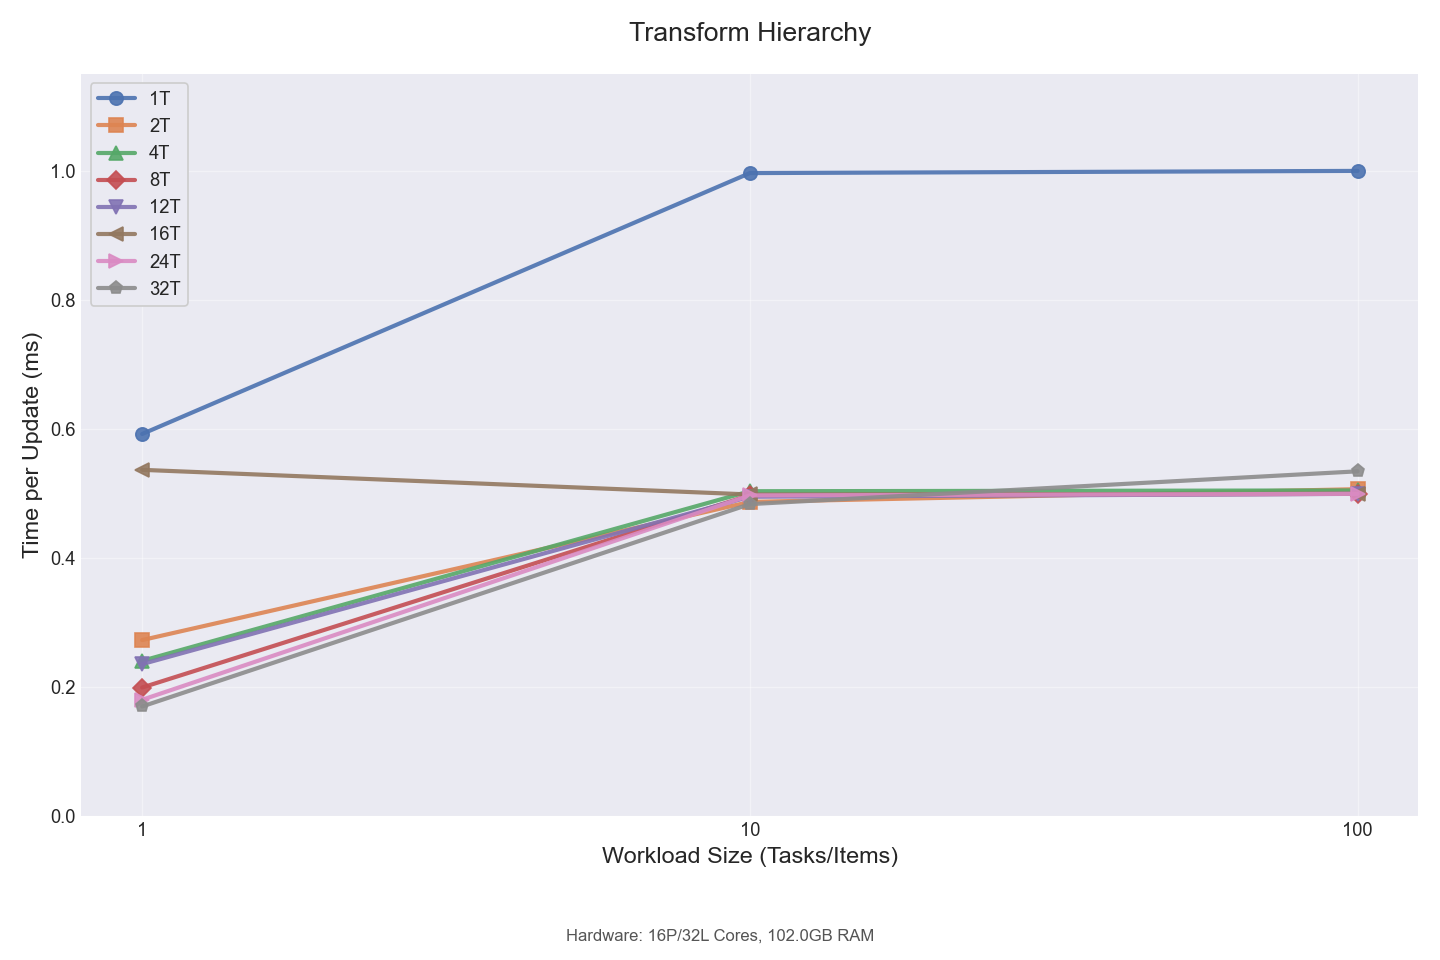
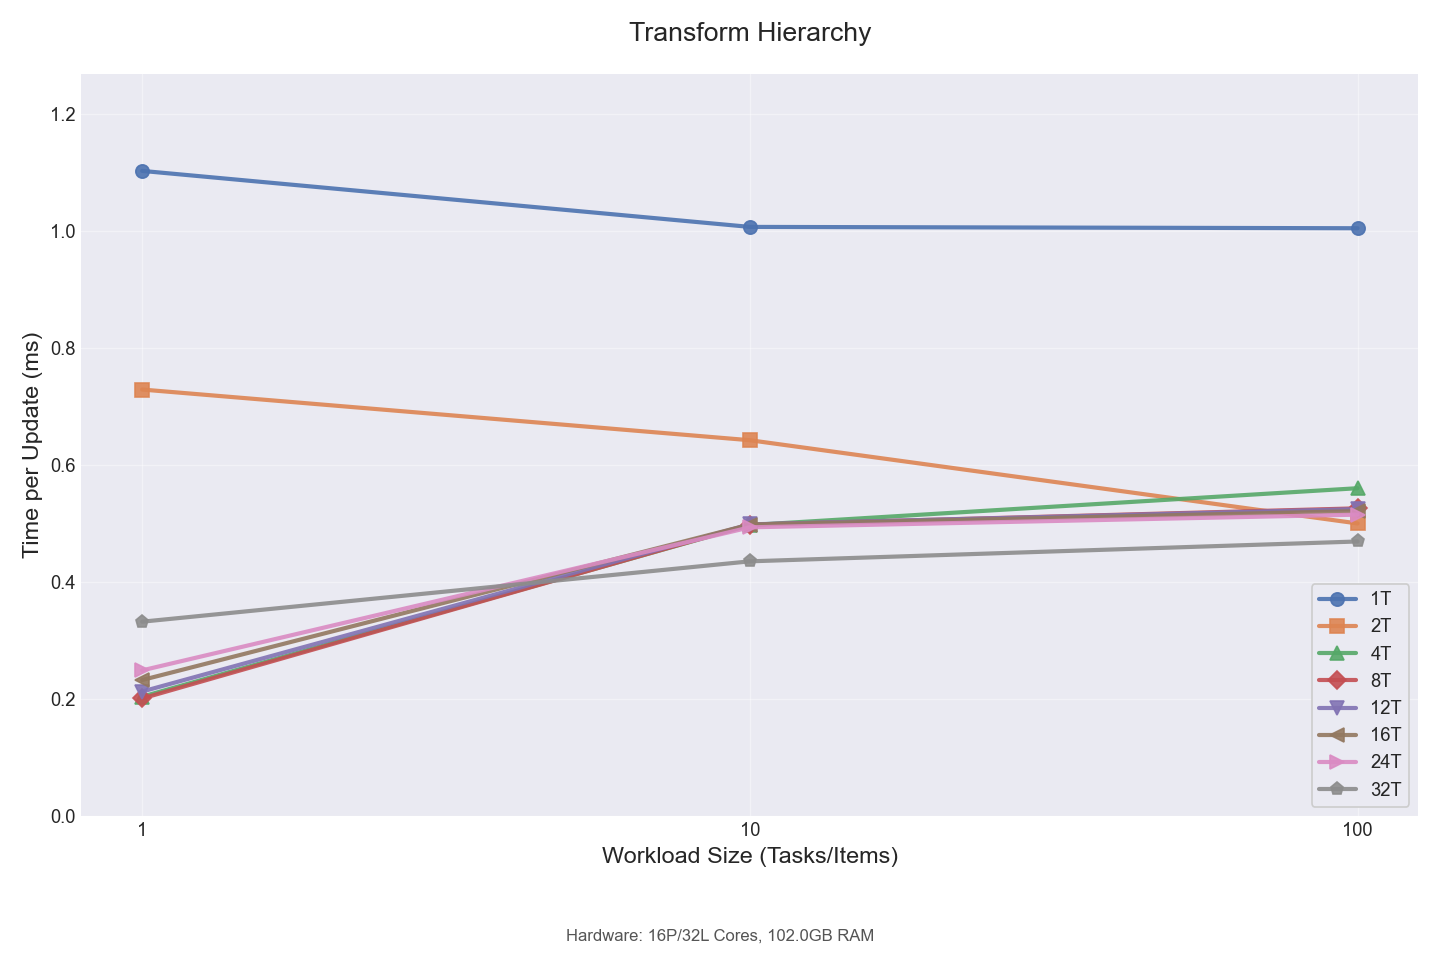
implement globalparker to improve workstealing

diff --git a/src/worker.rs b/src/worker.rs
@@ -26,6 +26,56 @@ pub enum WorkerPoolError {
     WorkerPanic { failed_count: usize },
 }
 
+/// Global parking mechanism for worker threads.
+/// uses a Condition Variable to block idle threads and wake them up when work arrives.
+pub(crate) struct GlobalParker {
+    lock: std::sync::Mutex<()>,
+    cvar: std::sync::Condvar,
+    sleepers: AtomicUsize,
+}
+
+impl GlobalParker {
+    pub(crate) fn new() -> Self {
+        Self {
+            lock: std::sync::Mutex::new(()),
+            cvar: std::sync::Condvar::new(),
+            sleepers: AtomicUsize::new(0),
+        }
+    }
+
+    /// Blocks the current thread until notified.
+    pub(crate) fn park(&self) {
+        let mut guard = self.lock.lock().unwrap();
+        self.sleepers.fetch_add(1, Ordering::SeqCst);
+        // We put the thread to sleep.
+        // Note: We might experience spurious wakeups, which is fine; the worker will just check for work and sleep again.
+        // We use wait_timeout to prevent deadlocks (lost wakeups) due to race conditions between
+        // checking `sleepers` count and actually parking. A 1ms timeout is sufficient responsiveness backup.
+        let _result = self.cvar.wait_timeout(guard, std::time::Duration::from_millis(1)).unwrap();
+        self.sleepers.fetch_sub(1, Ordering::SeqCst);
+    }
+
+    /// Wakes up *one* sleeping thread, if any are sleeping.
+    pub(crate) fn wake_one(&self) {
+        // Optimization: Only notify if we know someone is sleeping.
+        // We use Relaxed or Acquire/Release for the check depending on strictness needed,
+        // but SeqCst is safest for now to ensure we see the increment from `park`.
+        if self.sleepers.load(Ordering::SeqCst) > 0 {
+            // We notify while holding the lock? 
+            // Ideally avoid holding lock while notifying to prevent "hurry up and wait" but Condvar::notify_one doesn't require lock.
+            // Just notify.
+            self.cvar.notify_one();
+        }
+    }
+
+    /// Wakes up *all* sleeping threads.
+    pub(crate) fn wake_all(&self) {
+        if self.sleepers.load(Ordering::SeqCst) > 0 {
+            self.cvar.notify_all();
+        }
+    }
+}
+
 // Thread-Local Storage for the worker's FrameAllocator
 thread_local! {
     static ACTIVE_ALLOCATOR: Cell<Option<*mut FrameAllocator>> = const { Cell::new(None) };
@@ -87,6 +137,7 @@ pub(crate) struct WorkerParams {
     pub(crate) fiber_config: crate::job_system::FiberConfig,
     pub(crate) frame_index: Arc<CachePadded<AtomicU64>>,
     pub(crate) topology: Arc<crate::topology::Topology>,
+    pub(crate) parker: Arc<GlobalParker>,
     #[cfg(feature = "metrics")]
     pub(crate) metrics: Option<Arc<crate::metrics::Metrics>>,
 }
@@ -133,6 +184,7 @@ impl Worker {
             fiber_config,
             frame_index,
             topology,
+            parker,
             core_id: _,
             #[cfg(feature = "metrics")]
             metrics,
@@ -199,6 +251,8 @@ impl Worker {
         // Initialize RNG for randomized back-off
         // We use SmallRng for performance as we might call it frequently in the idle loop
         let mut rng = rand::rngs::SmallRng::from_rng(&mut rand::rng());
+
+
 
         // Track local frame index to detect changes
         let mut local_frame_index = frame_index.load(Ordering::Relaxed);
@@ -383,7 +437,7 @@ impl Worker {
                             let job = Job {
                                 work,
                                 counter,
-                                priority,
+                                 priority,
                             };
 
                             // Use local queue as scheduler for immediate wakeup locality if strategy permits
@@ -448,7 +502,9 @@ impl Worker {
                                                 metrics.global_injector_pushes.fetch_add(1, Ordering::Relaxed);
                                             }
                                             injector.push(job);
-                                        }
+                                         }
+                                         // Signal potential sleepers that global work is available
+                                         parker.wake_one();
                                     }
                                     _ => {
                                         // Keep local for other strategies
@@ -457,6 +513,8 @@ impl Worker {
                                             metrics.local_queue_pushes.fetch_add(1, Ordering::Relaxed);
                                         }
                                         local_queue.push(job);
+                                        // Signal potential sleepers that *local* work is available (which can be stolen)
+                                        parker.wake_one();
                                     }
                                 }
                             }
@@ -494,15 +552,16 @@ impl Worker {
                             continue;
                         }
 
-                        // Deep Idle: Randomized Back-off
+                        // Deep Idle: Signal-based Parking
                         // Mitigation for "Thundering Herd": When multiple workers are idle and contending
                         // for the same empty victims, we must desynchronize them.
-                        // We spin/yield a random number of times before resetting the backoff.
-                        let backoff_loops = rng.random_range(1..=5);
-                        for _ in 0..backoff_loops {
-                            thread::yield_now();
-                        }
                         
+                        // Parking Strategy:
+                        // - Instead of spinning or sleeping blindly, we park the thread (block).
+                        // - Threads are woken up by `notify_one` when new work is pushed.
+                        // - This eliminates "Empty Attempts" almost entirely as workers only wake when work exists.
+                        
+                        parker.park();
                         backoff.reset();
                     } else {
                         // Brief Idle: Spin or yield
@@ -536,6 +595,7 @@ pub struct WorkerPool {
     shutdown: Arc<CachePadded<AtomicBool>>,
     active_workers: Arc<CachePadded<AtomicUsize>>,
     frame_index: Arc<CachePadded<AtomicU64>>,
+    parker: Arc<GlobalParker>,
     // _fiber_pool: Arc<FiberPool>, // Removed as it is now thread-local
 }
 
@@ -577,6 +637,7 @@ impl WorkerPool {
         let active_workers = Arc::new(CachePadded::new(AtomicUsize::new(0)));
         let frame_index = Arc::new(CachePadded::new(AtomicU64::new(0)));
         let topology = Arc::new(crate::topology::Topology::detect());
+        let parker = Arc::new(GlobalParker::new());
 
         // We no longer create a global FiberPool here.
         // It is created lazily in each worker thread.
@@ -677,6 +738,7 @@ impl WorkerPool {
                 fiber_config: config.clone(),
                 frame_index: Arc::clone(&frame_index),
                 topology: Arc::clone(&topology),
+                parker: Arc::clone(&parker),
                 #[cfg(feature = "metrics")]
                 metrics: metrics.as_ref().map(Arc::clone),
             }));
@@ -689,6 +751,7 @@ impl WorkerPool {
             shutdown,
             active_workers,
             frame_index,
+            parker,
             // _fiber_pool: fiber_pool, // Removed
         }
     }
@@ -710,13 +773,15 @@ impl WorkerPool {
         } else {
             self.injector.push(job);
         }
+        self.parker.wake_one();
     }
 
     /// Submits multiple jobs in a batch to reduce contention.
     pub fn submit_batch(&self, jobs: Vec<Job>) {
+        if jobs.is_empty() { return; }
         // We could optimize this by splitting batch, but for now simple iteration is fine
         for job in jobs {
-            self.submit(job);
+            self.submit(job); // `submit` calls wake_one, might be slightly inefficient (lock contention) but robust
         }
     }
 
